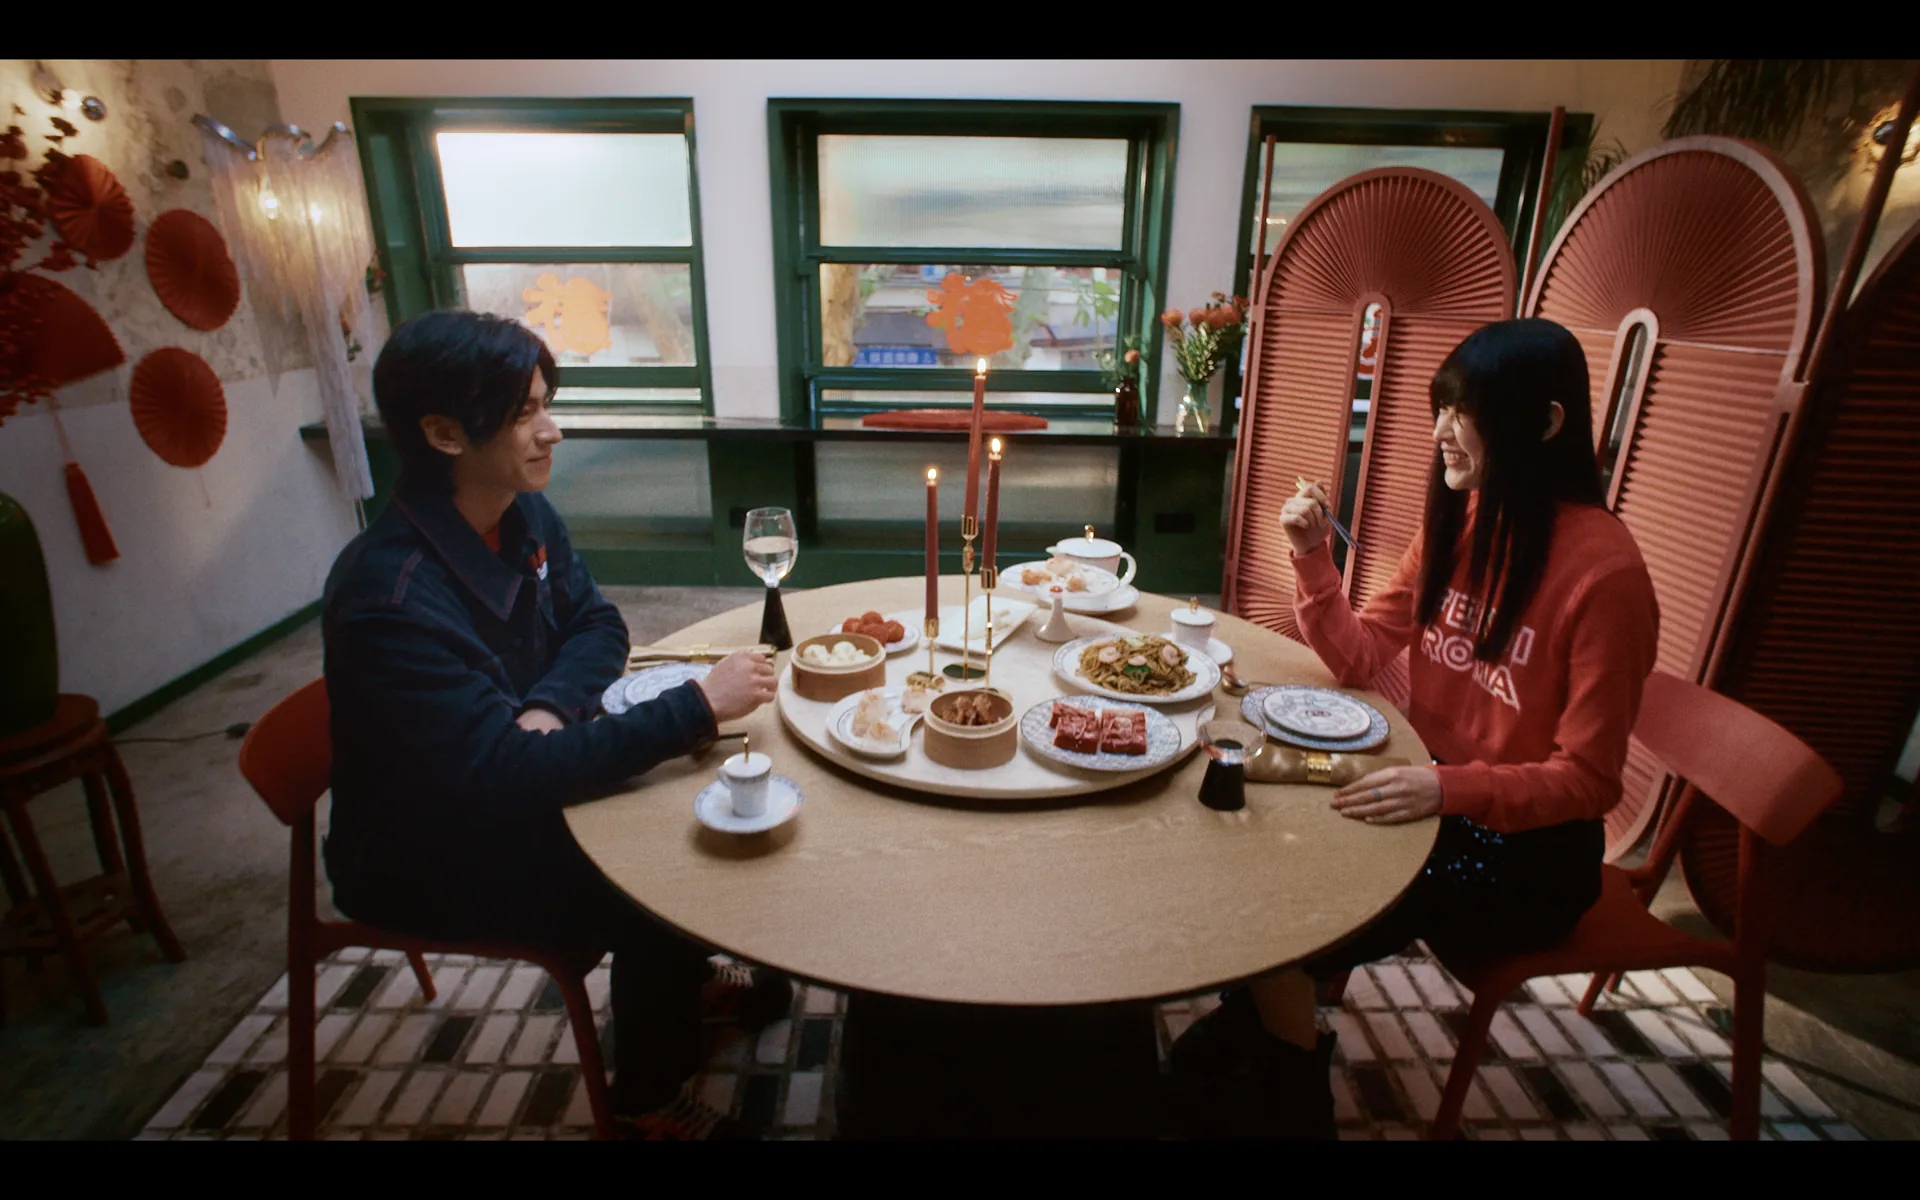
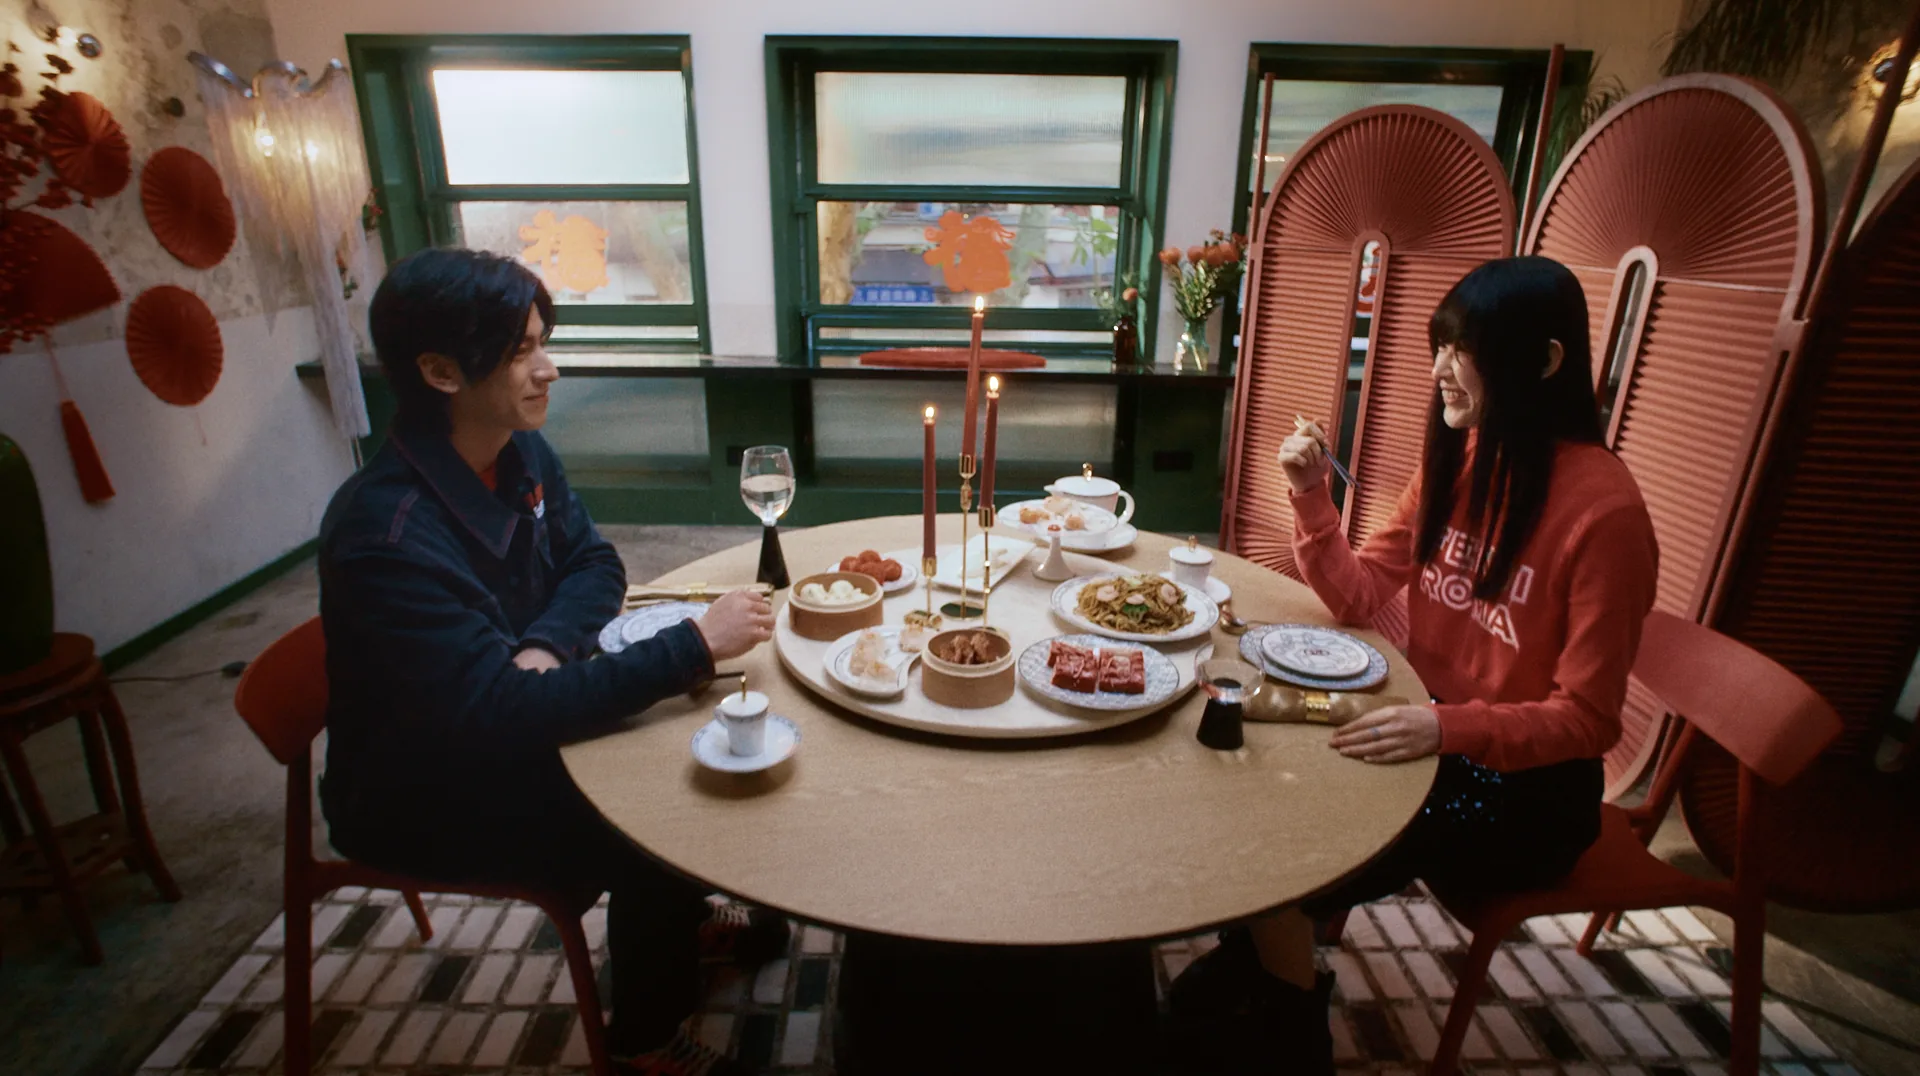
Update generated website content

diff --git a/generated-website/commercials/fendi-cny/index.html b/generated-website/commercials/fendi-cny/index.html
@@ -1133,7 +1133,7 @@
       <div class="grid-wrapper">
         <div class="portfolio-grid"
              data-grid-mode="justify"
-             data-layout="7-5, 5-7, 4-5-3, 8-4, 4-8"
+             data-layout="3-4-5, 5-3-4, 8-4"
              data-justify-max-items="3"
              data-justify-mobile-max-items="2">
         <figure class="highlight-tile media-hover-zoom" data-highlight-tile>
@@ -1173,7 +1173,7 @@
           </button>
         </figure>
         <figure class="highlight-tile media-hover-zoom" data-highlight-tile>
-          <img class="highlight-media media-hover-zoom-target" width="1920" height="1200" data-aspect-ratio="1.600000" src="../../../editable-content/work/commercials/fendi-cny/highlight/4_Screenshot%202022-12-15%20at%207.04.52%20PM.webp" srcset="../../media/editable-content/work/commercials/fendi-cny/highlight/4_Screenshot%202022-12-15%20at%207.04.52%20PM-480.webp 480w, ../../media/editable-content/work/commercials/fendi-cny/highlight/4_Screenshot%202022-12-15%20at%207.04.52%20PM-960.webp 960w, ../../media/editable-content/work/commercials/fendi-cny/highlight/4_Screenshot%202022-12-15%20at%207.04.52%20PM-1440.webp 1440w, ../../media/editable-content/work/commercials/fendi-cny/highlight/4_Screenshot%202022-12-15%20at%207.04.52%20PM-1920.webp 1920w" sizes="100vw" alt="Fendi Cny highlight" loading="eager" decoding="async">
+          <img class="highlight-media media-hover-zoom-target" width="1920" height="1076" data-aspect-ratio="1.784387" src="../../../editable-content/work/commercials/fendi-cny/highlight/4_Screenshot%202022-12-15%20at%207.04.52%20PM.webp" srcset="../../media/editable-content/work/commercials/fendi-cny/highlight/4_Screenshot%202022-12-15%20at%207.04.52%20PM-480.webp 480w, ../../media/editable-content/work/commercials/fendi-cny/highlight/4_Screenshot%202022-12-15%20at%207.04.52%20PM-960.webp 960w, ../../media/editable-content/work/commercials/fendi-cny/highlight/4_Screenshot%202022-12-15%20at%207.04.52%20PM-1440.webp 1440w, ../../media/editable-content/work/commercials/fendi-cny/highlight/4_Screenshot%202022-12-15%20at%207.04.52%20PM-1920.webp 1920w" sizes="100vw" alt="Fendi Cny highlight" loading="eager" decoding="async">
           <button class="highlight-expand-button"
                   type="button"
                   data-highlight-expand
@@ -1222,42 +1222,6 @@
         </figure>
         <figure class="highlight-tile media-hover-zoom" data-highlight-tile>
           <video class="highlight-media media-hover-zoom-target" data-src="../../media/editable-content/work/commercials/fendi-cny/highlight/8_clip19_0m20s-tile-1080p-v1.mp4" data-src-480="../../media/editable-content/work/commercials/fendi-cny/highlight/8_clip19_0m20s-tile-480p-v1.mp4" data-src-720="../../media/editable-content/work/commercials/fendi-cny/highlight/8_clip19_0m20s-tile-720p-v1.mp4" data-src-1080="../../media/editable-content/work/commercials/fendi-cny/highlight/8_clip19_0m20s-tile-1080p-v1.mp4" data-full-src="../../../editable-content/work/commercials/fendi-cny/highlight/8_clip19_0m20s.mp4" data-responsive-video muted playsinline autoplay loop preload="metadata" aria-label="Fendi Cny highlight"></video>
-          <button class="highlight-expand-button"
-                  type="button"
-                  data-highlight-expand
-                  aria-label="Expand highlight media">
-            <svg viewBox="0 0 24 24" aria-hidden="true" focusable="false">
-              <path class="interactive-chevron interactive-chevron--expand-ne" d="M14 4h6v6"></path>
-              <path class="interactive-chevron interactive-chevron--expand-sw" d="M10 20H4v-6"></path>
-            </svg>
-          </button>
-        </figure>
-        <figure class="highlight-tile media-hover-zoom" data-highlight-tile>
-          <img class="highlight-media media-hover-zoom-target" width="1920" height="1200" data-aspect-ratio="1.600000" src="../../../editable-content/work/commercials/fendi-cny/highlight/9_Screenshot%202022-12-26%20at%209.48.15%20PM.webp" srcset="../../media/editable-content/work/commercials/fendi-cny/highlight/9_Screenshot%202022-12-26%20at%209.48.15%20PM-480.webp 480w, ../../media/editable-content/work/commercials/fendi-cny/highlight/9_Screenshot%202022-12-26%20at%209.48.15%20PM-960.webp 960w, ../../media/editable-content/work/commercials/fendi-cny/highlight/9_Screenshot%202022-12-26%20at%209.48.15%20PM-1440.webp 1440w, ../../media/editable-content/work/commercials/fendi-cny/highlight/9_Screenshot%202022-12-26%20at%209.48.15%20PM-1920.webp 1920w" sizes="100vw" alt="Fendi Cny highlight" loading="eager" decoding="async">
-          <button class="highlight-expand-button"
-                  type="button"
-                  data-highlight-expand
-                  aria-label="Expand highlight media">
-            <svg viewBox="0 0 24 24" aria-hidden="true" focusable="false">
-              <path class="interactive-chevron interactive-chevron--expand-ne" d="M14 4h6v6"></path>
-              <path class="interactive-chevron interactive-chevron--expand-sw" d="M10 20H4v-6"></path>
-            </svg>
-          </button>
-        </figure>
-        <figure class="highlight-tile media-hover-zoom" data-highlight-tile>
-          <img class="highlight-media media-hover-zoom-target" width="1920" height="1200" data-aspect-ratio="1.600000" src="../../../editable-content/work/commercials/fendi-cny/highlight/10_Screenshot%202022-12-15%20at%207.00.32%20PM.webp" srcset="../../media/editable-content/work/commercials/fendi-cny/highlight/10_Screenshot%202022-12-15%20at%207.00.32%20PM-480.webp 480w, ../../media/editable-content/work/commercials/fendi-cny/highlight/10_Screenshot%202022-12-15%20at%207.00.32%20PM-960.webp 960w, ../../media/editable-content/work/commercials/fendi-cny/highlight/10_Screenshot%202022-12-15%20at%207.00.32%20PM-1440.webp 1440w, ../../media/editable-content/work/commercials/fendi-cny/highlight/10_Screenshot%202022-12-15%20at%207.00.32%20PM-1920.webp 1920w" sizes="100vw" alt="Fendi Cny highlight" loading="eager" decoding="async">
-          <button class="highlight-expand-button"
-                  type="button"
-                  data-highlight-expand
-                  aria-label="Expand highlight media">
-            <svg viewBox="0 0 24 24" aria-hidden="true" focusable="false">
-              <path class="interactive-chevron interactive-chevron--expand-ne" d="M14 4h6v6"></path>
-              <path class="interactive-chevron interactive-chevron--expand-sw" d="M10 20H4v-6"></path>
-            </svg>
-          </button>
-        </figure>
-        <figure class="highlight-tile media-hover-zoom" data-highlight-tile>
-          <img class="highlight-media media-hover-zoom-target" width="1920" height="1200" data-aspect-ratio="1.600000" src="../../../editable-content/work/commercials/fendi-cny/highlight/11_Screenshot%202022-12-26%20at%209.58.07%20PM.webp" srcset="../../media/editable-content/work/commercials/fendi-cny/highlight/11_Screenshot%202022-12-26%20at%209.58.07%20PM-480.webp 480w, ../../media/editable-content/work/commercials/fendi-cny/highlight/11_Screenshot%202022-12-26%20at%209.58.07%20PM-960.webp 960w, ../../media/editable-content/work/commercials/fendi-cny/highlight/11_Screenshot%202022-12-26%20at%209.58.07%20PM-1440.webp 1440w, ../../media/editable-content/work/commercials/fendi-cny/highlight/11_Screenshot%202022-12-26%20at%209.58.07%20PM-1920.webp 1920w" sizes="100vw" alt="Fendi Cny highlight" loading="eager" decoding="async">
           <button class="highlight-expand-button"
                   type="button"
                   data-highlight-expand
